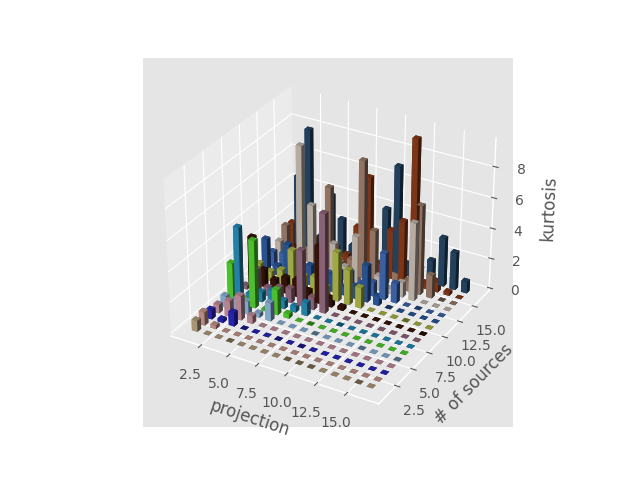
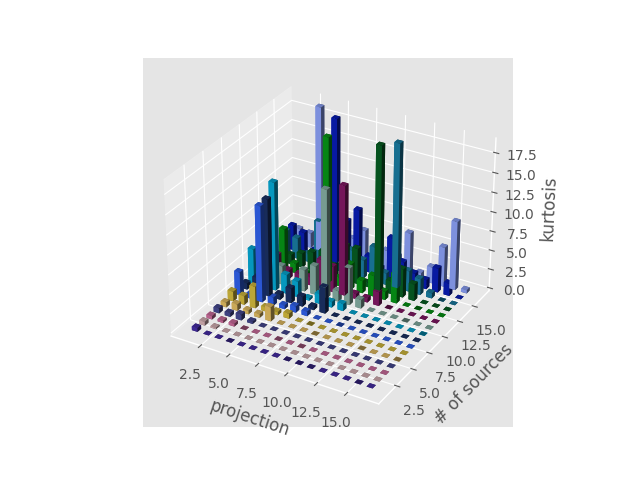
Fixed logic with calculating kurtosis. Should be in the features and not the component's vector

Changed region(s): [[0.2812, 0.2188, 0.75, 0.8125], [0.7812, 0.3125, 0.8438, 0.5625], [0.7812, 0.5938, 0.8125, 0.625]]

diff --git a/ica.py b/ica.py
@@ -48,9 +48,9 @@ def graph_analysis(task: Task):
     components_to_try = np.arange(1, num_features + 1)
     for num_components in components_to_try:
         kurtosis_scores = []
-        ica, _ = transform(sample_set, num_components)
-        for component in ica.components_:
-            abs_kurtosis = np.abs(stats.kurtosis(component))
+        ica, transformed_data = transform(sample_set, num_components)
+        for component in range(num_components):
+            abs_kurtosis = np.abs(stats.kurtosis(transformed_data[:, component]))
             kurtosis_scores.append(abs_kurtosis)
         kurtosis_scores = np.pad(kurtosis_scores, (0, num_features - num_components))
         all_kurtosis_scores.append(kurtosis_scores)
